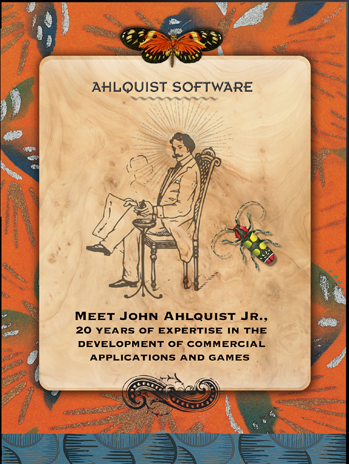
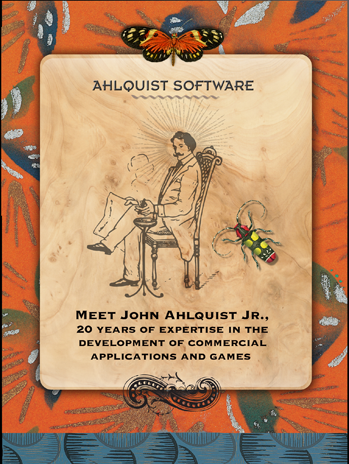
more updates on animations ....

Changed region(s): [[0.0, 0.0, 1.0, 1.0], [0.659, 0.3621, 0.6877, 0.3922]]

diff --git a/public/stylesheets/style.css b/public/stylesheets/style.css
@@ -117,7 +117,7 @@ time, mark, audio, video {
 }
 
 #bottom-wrapper {
-  background: #C65843 url("../images/bottom-nav-bkgrnd.png") repeat-x top left;
+  background: #e5e0d2 url("../images/bottom-nav-bkgrnd.png") repeat-x top left;
   z-index: 9999;
   position:fixed;
   background-color:#333;
@@ -244,47 +244,27 @@ li {
 /* Remove margins for navigation lists */
 header {
   background: url("../images/textured_top.png") no-repeat 0 0;
+  margin: 0;
+  padding: 0;
+  display: inline;
+  height: auto;
 }
 
 header nav {
   margin-top: 28px;
-}
-
-header nav {
   float: right;
-  z-index: 10000;
 }
 
-header nav ul, nav li {
-  margin: 3px 0 0 0;
+header nav ul, header nav li {
+  margin: 3px 30px 0 0;
   list-style: none;
   list-style-image: none;
-  display: block;
-  font: Arial, Helvetica, sans-serif;
+  display: inline;
+  font-family: Arial, Helvetica, sans-serif;
   font-size: 11px;
   position: relative;
-  z-index: 200000;
-}
-header nav li.active {
-  z-index: 200001;
-}
-
-
-header nav li a:link {
-  color: #DFDBC9;
-  text-decoration: none;
-}
-
-header nav li a:active, header nav li a:hover {
-  color: #323e41;
-}
-
-header nav li a, nav li a:visited {
-  color: #DFDBC9;
-}
-
-header nav li a:hover {
-  color: #323e41;
+  z-index: 20;
+  height: 50px;
 }
 
 footer {
@@ -296,11 +276,8 @@ footer {
 }
 
 footer nav {
-  margin-top: 20px;
-}
-
-footer nav {
   float: right;
+  margin-top: 20px;
 }
 
 footer nav ul, nav li, nav li.active {
@@ -308,29 +285,24 @@ footer nav ul, nav li, nav li.active {
   list-style: none;
   list-style-image: none;
   display: inline;
-  font: Arial, Helvetica, sans-serif;
+  font-family: Arial, Helvetica, sans-serif;
   font-size: 11px;
 }
 
-footer nav li.active {
+header nav li.active a, footer nav li.active a {
+  color: #DFDBC9;   
+  font-weight: 600;
+}
+
+footer nav li a, footer li nav a:visited,
+header nav li a, header li nav a:visited {
   color: #323e41;
+  text-decoration: none;   
 }
 
-footer nav li a:link {
+header nav li a:hover, footer nav li a:hover {
   color: #DFDBC9;
-  text-decoration: none;
-}
-
-footer nav li a:hover {
-  color: #323e41;
-}
-
-footer nav a, nav a:active, nav a:visited, nav a:hover {
-  color: #DFDBC9;
-}
-
-footer nav a:hover {
-  color: #036;
+  text-decoration: none;   
 }
 
 small {
@@ -792,7 +764,7 @@ h4 {
 }
   /* Front page updates to  showcase two feature sets */
   #features {
-  padding: 34px 30px 0 30px;
+  padding: 15px 30px 0 30px;
   }
   
   #features .nav-tabs {
@@ -906,3 +878,18 @@ h4 {
   #sphere-area img { width: 150px; height: 150px; position: absolute; top: 50px; left: 250px; }
   #sphere-area #butterfly-one { opacity: 0; }
   #sphere-area #butterfly-two { opacity: 0; }
+  
+  #sphere-area-two { height: 150px; position: absolute; width: 150px; left: 432px; top: 38px; }
+  #sphere-area-two img { width: 150px; height: 150px; position: absolute; top: 65px; left: 0px; }
+  
+  #sphere-area-three { height: 250px; position: absolute; width: 100%;  left: 400px; top:600px; }
+  #sphere-area-three img { width: 170px; height: 170px; position: absolute; top: 20px; left: 5px; }
+  #sphere-area-three #butterfly-three { opacity: 0; }
+  
+  #sphere-area-four { height: 150px; position: absolute; width: 150px; left: 0px; top: 175px; }
+  #sphere-area-four img { width: 150px; height: 150px; position: absolute; top: 65px; left: 10px; }
+  #sphere-area-four #butterfly-four { opacity: 0; }
+  
+  
+  
+  

diff --git a/public/javascripts/circulate.js b/public/javascripts/circulate.js
@@ -28,42 +28,78 @@ $(window).load(function() {
         }       
     });   
    
-
-    function startBallOne() {
+    function startInsectOne() {
         $("#butterfly-three").circulate({
             speed: 4000,
             height: 450,
             width: -650,
-            sizeAdjustment: 60,
+            sizeAdjustment: 85,
             loop: true,
             zIndexValues: [0, 0, 3, 3]
         });
     }
     
-    function startBallTwo() {
+    function startInsectTwo() {
         $("#butterfly-one").circulate({
             speed: 9000,
-            height: 520,
-            width: -1100,
-            sizeAdjustment: 25,
+            height: 820,
+            width: -1700,
+            sizeAdjustment: 75,
             loop: true,
             zIndexValues: [60, 60, 60, 60]
         })
     }
     
-    function startBallThree() {
+    function startInsectThree() {
         $("#butterfly-two").circulate({
             speed: 4000,
-            height: 300,
+            height: 700,
             width: -750,
-            sizeAdjustment: 10,
+            sizeAdjustment: 60,
             loop: true,
             zIndexValues: [3, 3, 1, 1]
         }).fadeIn();
     }
             
-    startBallOne();
-    setTimeout(startBallTwo, 1000);
-    setTimeout(startBallThree, 8000);
+    startInsectOne();
+    setTimeout(startInsectTwo, 1000);
+    setTimeout(startInsectThree, 8000);
+    
+    function startInsectFour() {
+        $("#butterfly-four").circulate({
+            speed: 5500,
+            height: -1800,
+            width: -650,
+            sizeAdjustment: 10,
+            loop: true,
+            zIndexValues: [60, 60, 60, 60]
+        });
+    }
+    
+    function startInsectFive() {
+        $("#butterfly-five").circulate({
+            speed: 5000,
+            height: 620,
+            width: -1500,
+            sizeAdjustment: 10,
+            loop: true,
+            zIndexValues: [50, 50, 50, 50]
+        })
+    }
+    
+    function startInsectSix() {
+        $("#butterfly-six").circulate({
+            speed: 6500,
+            height: 1000,
+            width: 3000,
+            sizeAdjustment: 80,
+            loop: true,
+            zIndexValues: [40, 40, 40, 40]
+        }).fadeIn();
+    }
+            
+    startInsectFour();
+    setTimeout(startInsectFive, 0);
+    setTimeout(startInsectSix, 0);
     
 });
